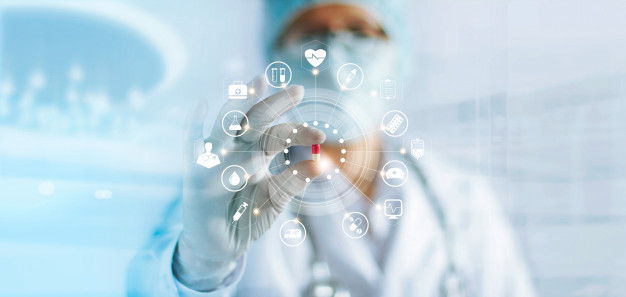
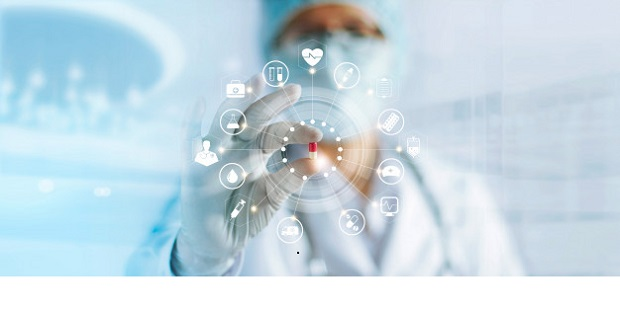
responsive desgin

diff --git a/src/views/Home.vue b/src/views/Home.vue
@@ -24,7 +24,7 @@
            </div>
           </slide>
            <slide class="background">
-            <img class="pic" width="100%" src="../assets/pic4.jpg">
+            <img class="pic" width="100%" src="../assets/pic8.jpg">
            
              <div class="contentt">
                <h1 class="title "> New Medicine <strong class="textColor">Everday</strong> </h1>
@@ -85,35 +85,35 @@
        <hooper :itemsToShow="3" :infiniteScroll="true" :autoPlay="true">
           <slide>
             <div class="product">
-                   <img height="400px" width="70%" src="../assets/product1.png">
+                   <img class="productimg" src="../assets/product1.png">
                    <h3>Umcka Cold Care</h3>
                    <p>12.00$</p>
             </div>
           </slide>
            <slide>
             <div class="product">
-                   <img height="400px" width="70%" src="../assets/product3.jpg">
+                   <img class="productimg" src="../assets/product3.jpg">
                     <h3>Get Clear Skin</h3>
                    <p>25.00$</p>
             </div>
           </slide>
            <slide>
             <div class="product">
-                   <img height="400px" width="70%" src="../assets/product4.jpg">
+                   <img class="productimg" src="../assets/product4.jpg">
                     <h3>Get Clear Skin</h3>
                    <p>25.00$</p>
             </div>
           </slide>
            <slide>
             <div class="product">
-                   <img height="400px" width="70%" src="../assets/product5.jpg">
+                   <img class="productimg" src="../assets/product5.jpg">
                     <h3>Get Clear Skin</h3>
                    <p>25.00$</p>
             </div>
           </slide>
            <slide>
             <div class="product">
-                   <img height="400px" width="70%" src="../assets/product6.jpg">
+                   <img class="productimg" src="../assets/product6.jpg">
                     <h3>Umcka Cold Care</h3>
                    <p>12.00$</p>
             </div>
@@ -153,7 +153,7 @@
            <svg height="50">
           <line x1="0" y1="0" x2="70" y2="0" style="stroke:#75b239;stroke-width:10" />
         </svg>
-          <hooper :itemsToShow="1" :centerMode="true"  >
+          <hooper :itemsToShow="1" :centerMode="true" :autoPlay="true" >
           <slide >
             <div class="col-md-12 mb-2">
                   <img class="customerPic" src="../assets/pic5.jpg">
@@ -257,13 +257,16 @@
       <div class="container-fluid">
       <div class="row">
         <div class="col-md-3 mt-5 ">
+          <ul>
           <h3>About <span class="textColor"> Pharmative</span></h3>
           <p>Lorem ipsum dolor sit amet, consectetur adipisicing elit.
              Eius quae reiciendis distinctio voluptates sed dolorum excepturi iure eaque, aut unde.</p>
+      </ul>
         </div>
         <div class="col-md-3 offset-md-1 mt-5 ">
-          <h3 class="textColor">Navigation</h3>
+          
           <ul>
+            <h3 class="textColor">Navigation</h3>
             <li>Supplements</li>
             <li>Vitamins</li>
             <li>Diet & Nutrition</li>
@@ -272,21 +275,22 @@
           </ul>
         </div>
         <div class="col-md-3 offset-md-1 mt-5 ">
-           <h3 class="textColor">Contact Info</h3>
+           
             <ul>
-            <li>
+              <h3 class="textColor">Contact Info</h3>
+            <li class="mb-2">
               <span>
                 <i class=" mr-2 fas fa-map-marker-alt"></i>
               </span>
-              203 Fake St. Mountain View, San Francisco, California, USA</li>
-            <li>
+              Cairo,Egypt</li>
+            <li class="mb-2">
               <span>
                 <i class=" mr-2 fas fa-phone-alt"></i>
               </span>
-              +2 392 3929 210</li>
-            <li>
+              0105669732</li>
+            <li class="mb-2">
               <span><i class=" mr-2 fas fa-envelope"></i></span>
-              emailaddress@domain.com</li>
+              pharmative@gmail.com</li>
             
 
           </ul>
@@ -294,7 +298,7 @@
 
       </div>
       <div class="col-md-12 text-center mt-5">
-      <p> Copyright © 2020 All rights reserved | This template is made with Love by RahmaGamal </p>
+      <p> Copyright © 2020 All rights reserved |  made with Love by RahmaGamal </p>
       </div>
       </div>
     </footer>
@@ -368,8 +372,9 @@ export default {
   color: #75b239 ;
 }
 .pic{
-   min-height: 500px;
+   /* min-height: 500px !important; */
    background-size: cover;
+   height: 93vh;
 }
 /*** section 2 */
 .box{
@@ -405,6 +410,11 @@ export default {
     border-radius: 10px;
     padding: 11%;
     margin-right: 2%;
+    
+}
+.productimg{
+  height: 400px;
+  width: 70%;
 }
 
 /*section 4 *****************/
@@ -463,7 +473,7 @@ export default {
 
 /*footer  */
 .foter{
-  background-color: #f8f9fa ;
+  background-color: #f5f6f7 ;
   text-align:left;
 }
 .foter ul{
@@ -481,6 +491,13 @@ export default {
     top: 24% !important;
     left: 0% !important;
   
+}
+.product{
+  height: 300px;
+}
+.productimg{
+  height: 55%;
+ 
 }
 .pic{
   min-height: 600px;

diff --git a/src/components/Header.vue b/src/components/Header.vue
@@ -1,14 +1,19 @@
 <template>
   <div>
+    
       <nav class="navbar">
          <div class="container">
              <div class="row content">
                    
                  <div class="col-md-3">
                    <span class="text">PHARMA<span class="text2">TIVE</span> </span>
-
+                   <!--- responsive menu --->
+              
+                   
+                      <i class="fas fa-bars  menu"></i>
                  </div>
                  <div class="col-md-6">
+                   
                      <ul >
                          <li class="list "> <a href="#" class="textcolor"> Home  </a>
                          </li>
@@ -30,7 +35,7 @@
                       <svg height="10" width="20">
                         <circle cx="30" cy="30" r="10" stroke="#75b239" stroke-width="3" fill="#75b239" />
                       </svg>
-
+                   
                  </div>
              </div>
 
@@ -62,7 +67,7 @@ body {
     top:0;
     z-index:9999;
     padding: 2%;
-    box-shadow: 5px 10px #ffff;
+    box-shadow: 0px 10px #f9f9f9;
 }
 .content{
   width: 100% !important ;
@@ -101,6 +106,9 @@ body {
 .textfont{
   font-size: 20px;
 }
+.menu{
+  display: none;
+}
 @media only screen and (max-width:763px){
   .list a{
     display:none
@@ -112,8 +120,21 @@ body {
     height: 60px;
   }
   .text{
+    display: block;
     float:left;
+    font-size: 23px;
   }
+  .text2{
+  
+    font-size: 23px;
+  }
+  .menu{
+  display: unset;
+  float: right;
+  font-size: 23px;
+  margin-top: 5px;
+  color: #75b239;
+}
   
 }
 </style>
